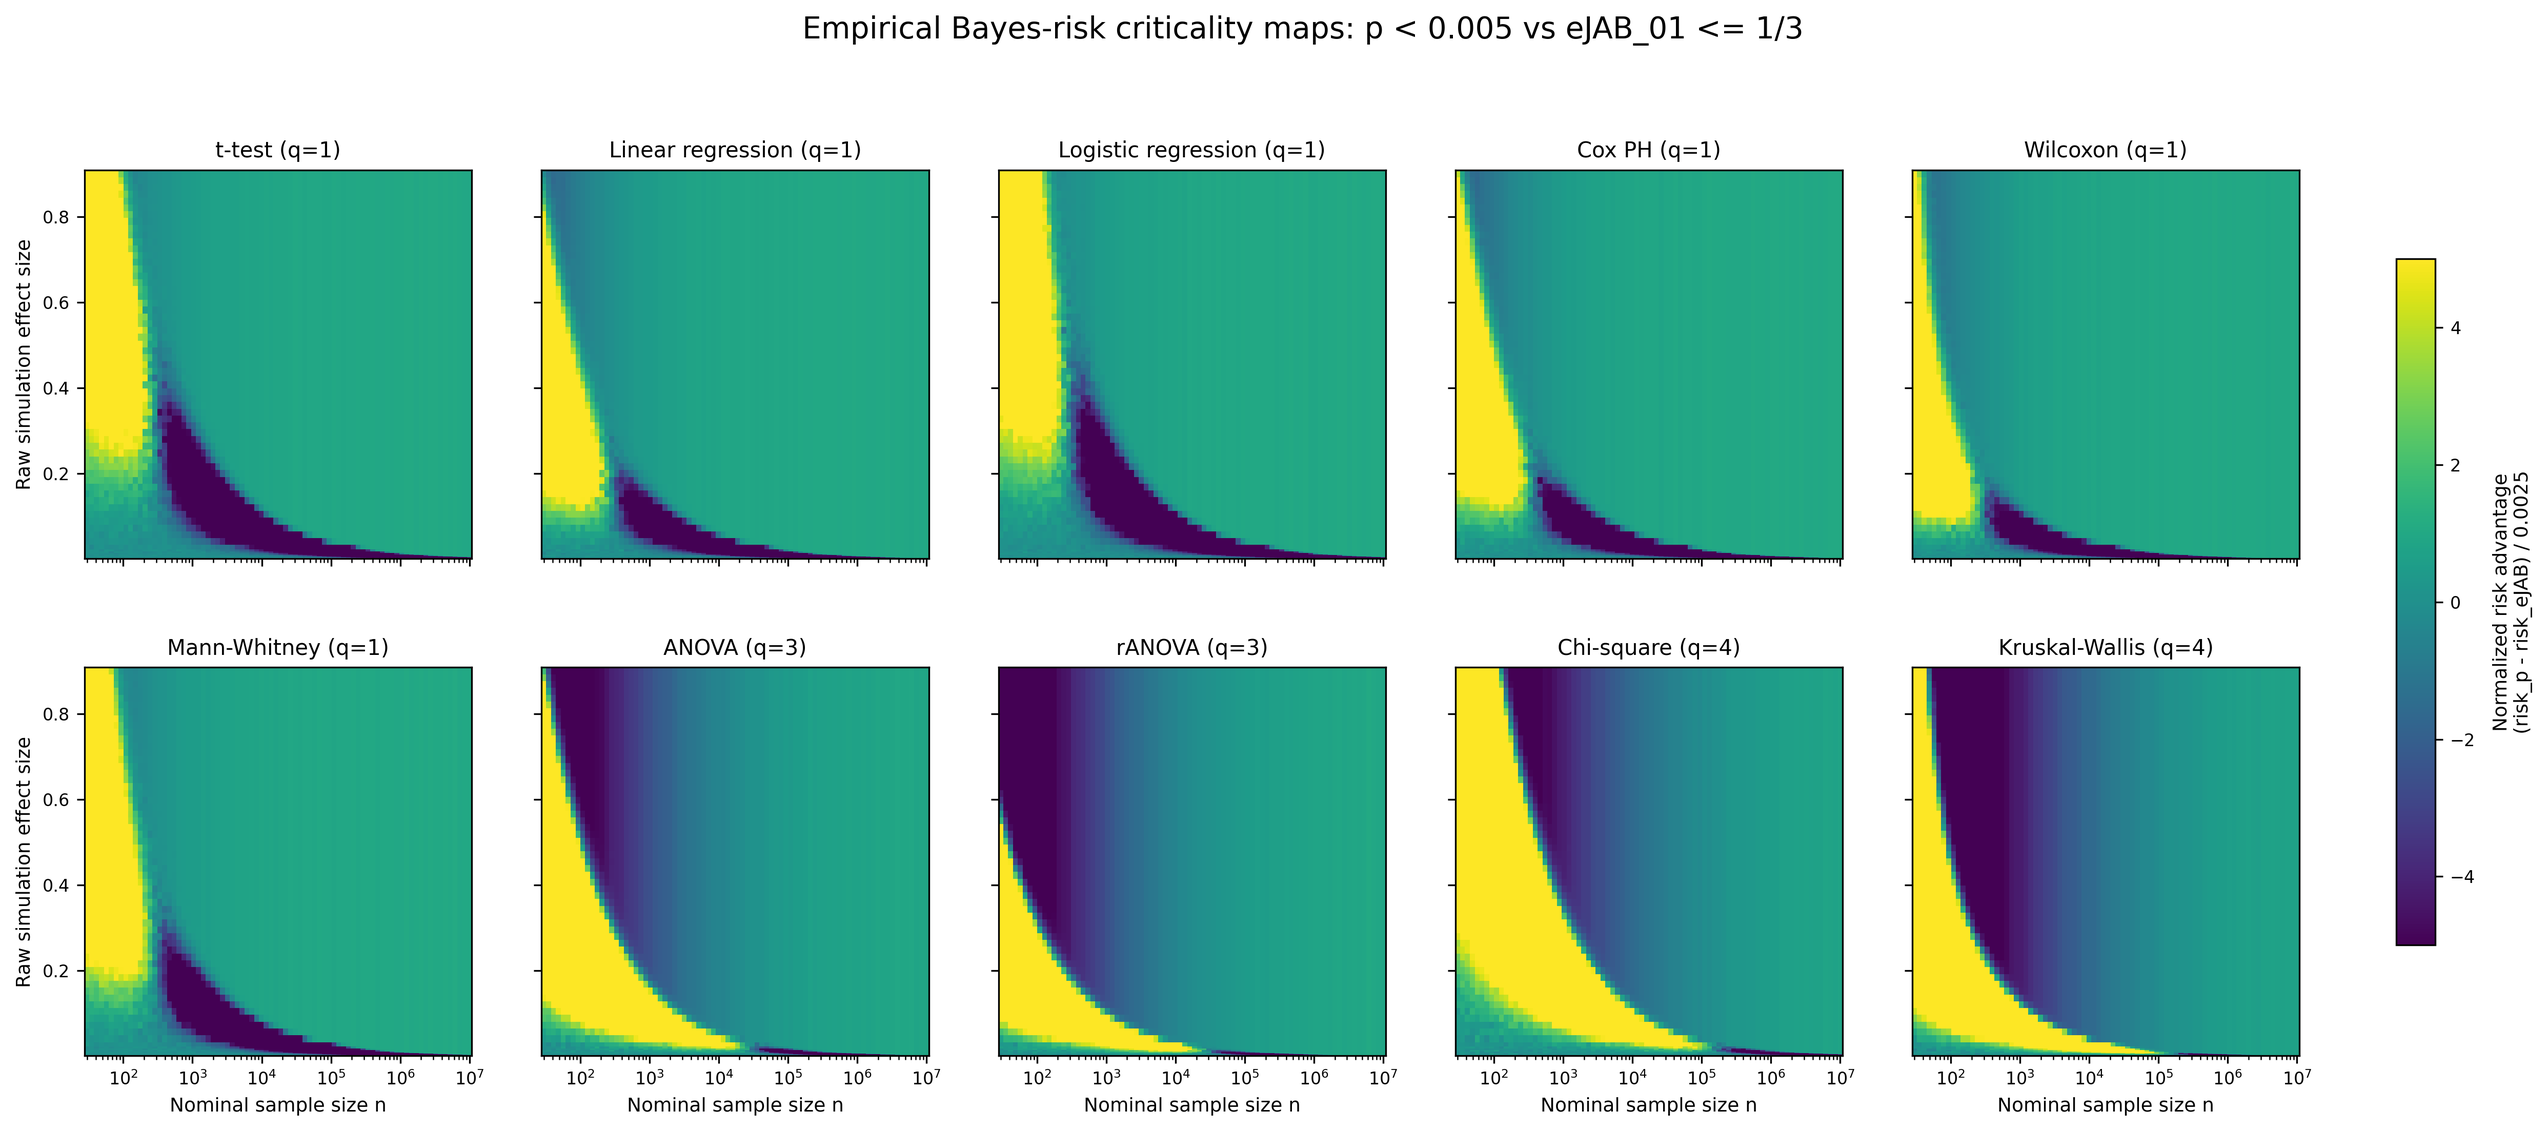
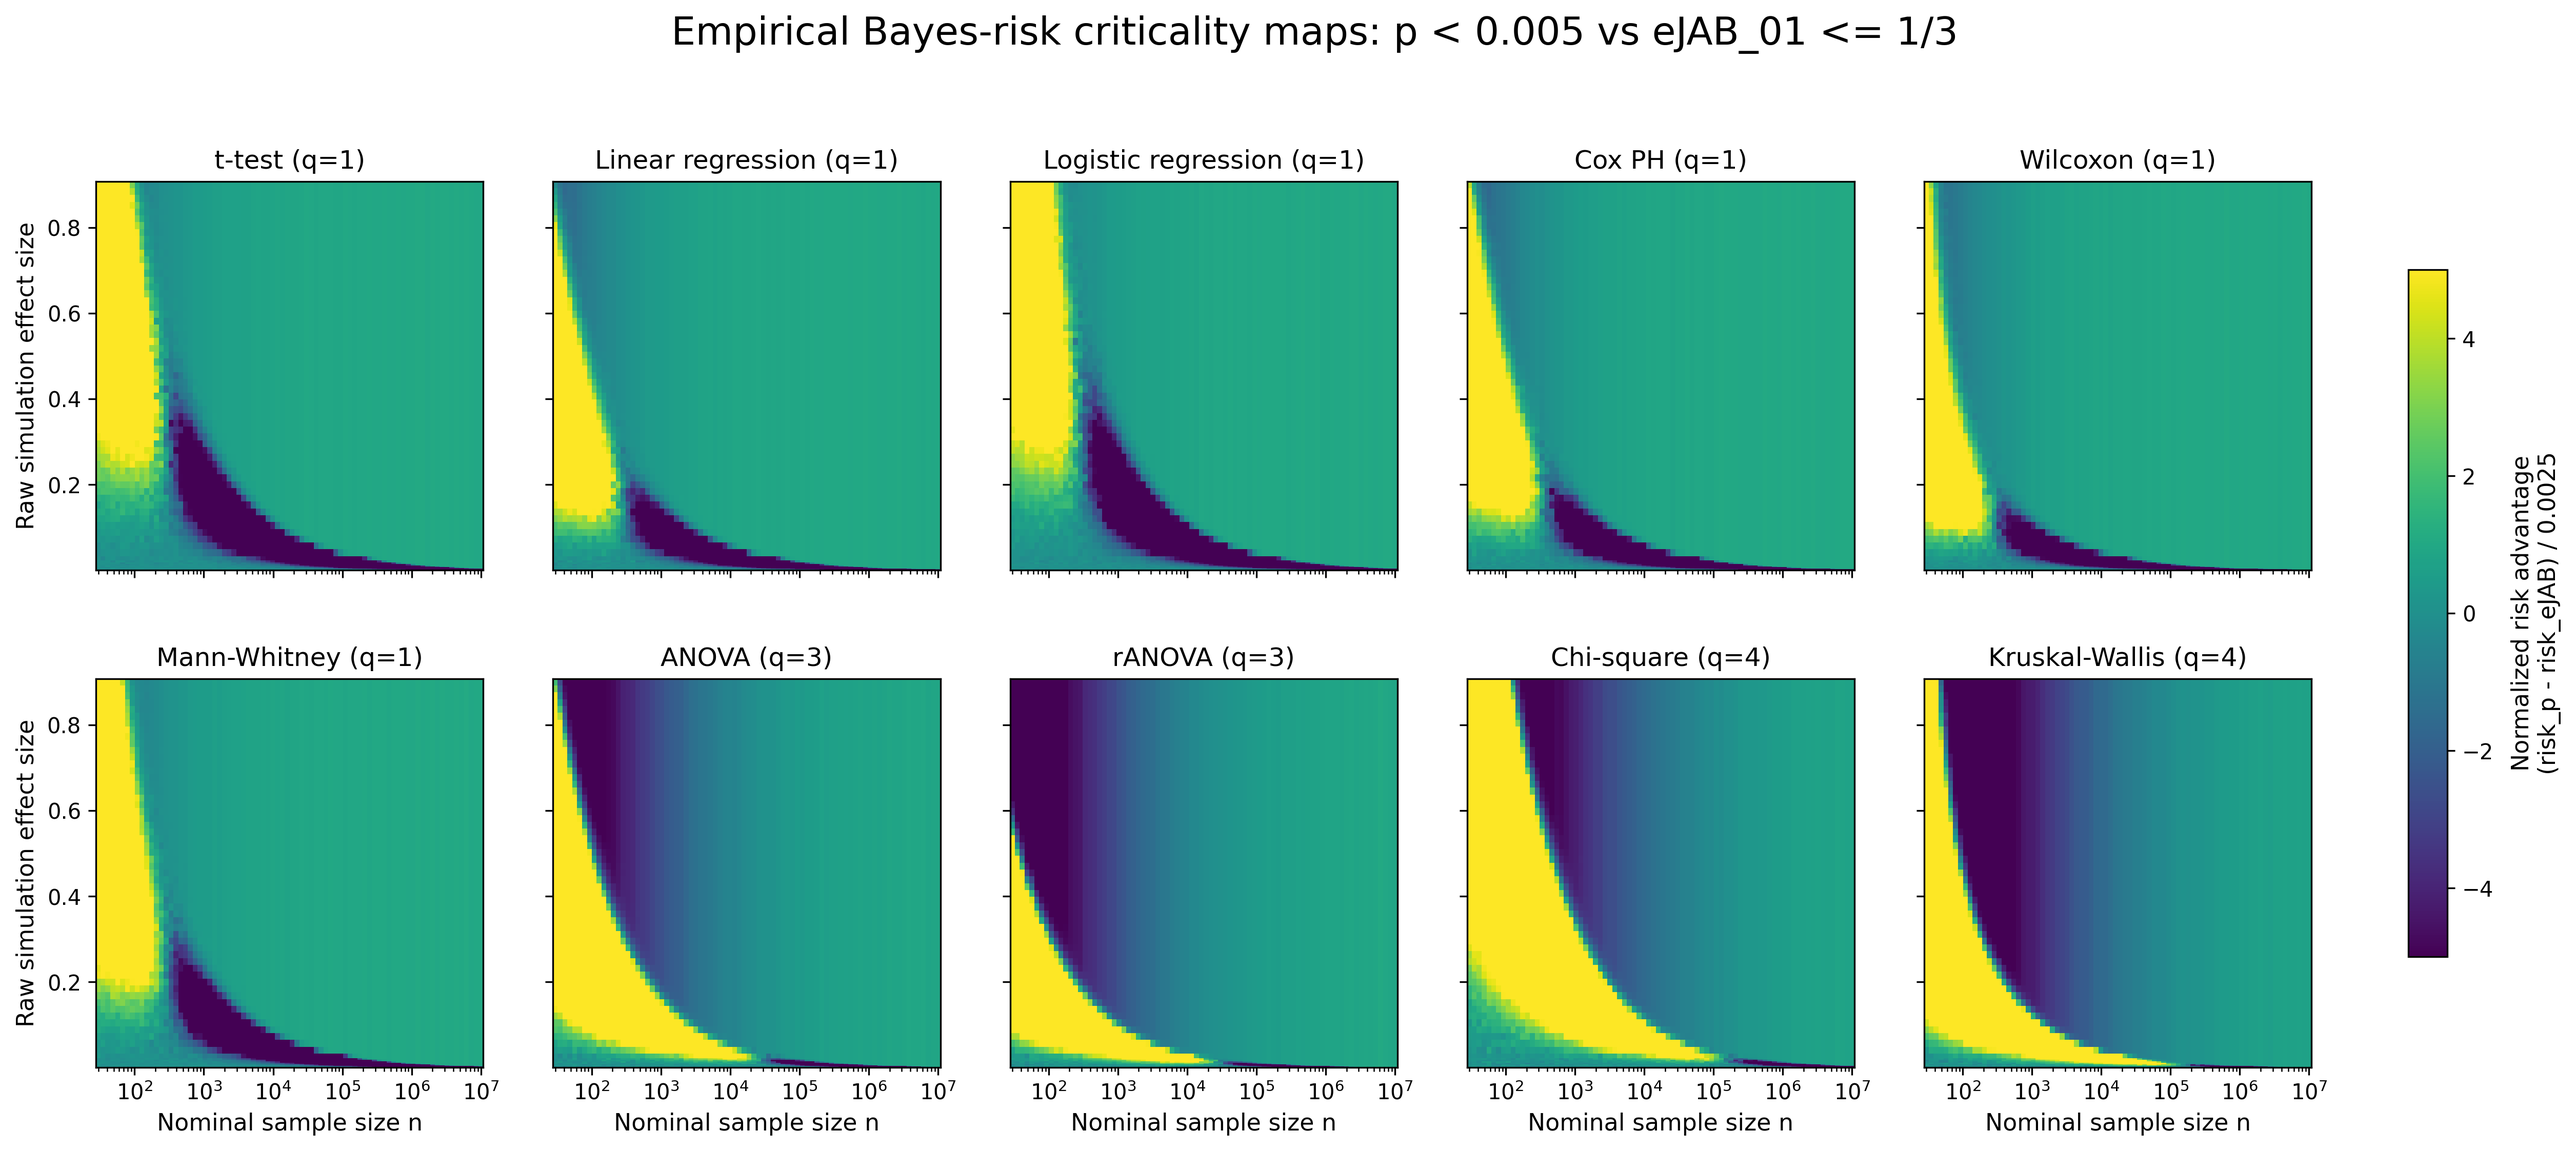
clarify johnson tsbf calibration in plots

diff --git a/ejabbayesrisk.py b/ejabbayesrisk.py
@@ -226,14 +226,18 @@ def johnson_chisq_logbf10(w: float, q: int, ncp: float) -> float:
 
 
 @lru_cache(maxsize=None)
-def johnson_chisq_threshold(q: int, bf10_threshold: float = JOHNSON_BF10_THRESHOLD) -> float:
+def johnson_chisq_calibration(
+    q: int,
+    bf10_threshold: float = JOHNSON_BF10_THRESHOLD,
+) -> tuple[float, float]:
     """
-    UMPBT-style Johnson rejection threshold for a chi-square statistic.
+    UMPBT-style Johnson calibration for a chi-square statistic.
 
     For each q and BF10 threshold gamma, choose the simple alternative
     noncentrality that minimizes the statistic boundary c satisfying:
         f_ncx2(c; q, lambda*) / f_chi2(c; q) = gamma.
     Reject when W >= c, equivalently Johnson BF01 <= 1 / gamma.
+    Returns (lambda*, c).
     """
     q = int(q)
     gamma = float(bf10_threshold)
@@ -271,7 +275,15 @@ def johnson_chisq_threshold(q: int, bf10_threshold: float = JOHNSON_BF10_THRESHO
     if not result.success:
         raise RuntimeError(f"Could not compute Johnson chi-square threshold for q={q}.")
 
-    return float(result.fun)
+    return float(math.exp(result.x)), float(result.fun)
+
+
+def johnson_chisq_ncp(q: int, bf10_threshold: float = JOHNSON_BF10_THRESHOLD) -> float:
+    return johnson_chisq_calibration(q, bf10_threshold)[0]
+
+
+def johnson_chisq_threshold(q: int, bf10_threshold: float = JOHNSON_BF10_THRESHOLD) -> float:
+    return johnson_chisq_calibration(q, bf10_threshold)[1]
 
 
 def johnson_bf01_reject_from_p(p: float, q: int, k01: float = K01) -> bool | float:
@@ -974,6 +986,7 @@ def plot_heatmap(
     """
     present_keys = list(risk["test_key"].drop_duplicates())
     present_tests = [cfg for cfg in TESTS if cfg["key"] in present_keys]
+    is_johnson = value_col == "normalized_delta_r_johnson_hat"
 
     n_panels = len(present_tests)
     ncols = 5 if n_panels > 5 else n_panels
@@ -1037,28 +1050,33 @@ def plot_heatmap(
         )
 
         ax.set_xscale("log")
-        ax.set_title(f"{cfg['short']} (q={cfg['q']})", fontsize=10)
-        ax.tick_params(axis="both", labelsize=8)
+        panel_title = f"{cfg['short']} (q={cfg['q']})"
+        if is_johnson:
+            lambda_star = johnson_chisq_ncp(cfg["q"])
+            panel_title += f"\nTSBF: gamma=3, lambda*={lambda_star:.3g}"
+
+        ax.set_title(panel_title, fontsize=12)
+        ax.tick_params(axis="both", labelsize=10)
 
     for ax in axes_flat[n_panels:]:
         ax.axis("off")
 
     for ax in axes[-1, :]:
-        ax.set_xlabel("Nominal sample size n", fontsize=9)
+        ax.set_xlabel("Nominal sample size n", fontsize=11)
 
     for row in axes:
-        row[0].set_ylabel("Raw simulation effect size", fontsize=9)
+        row[0].set_ylabel("Raw simulation effect size", fontsize=11)
 
     method = None
     if "method" in risk.columns and risk["method"].nunique(dropna=True) == 1:
         method = str(risk["method"].dropna().iloc[0])
     title_prefix = "Asymptotic Bayes-risk" if method == "asymptotic" else "Empirical Bayes-risk"
 
-    fig.suptitle(
-        f"{title_prefix} criticality maps: {reference_label} vs eJAB_01 <= 1/3",
-        fontsize=14,
-        y=1.02,
-    )
+    title = f"{title_prefix} criticality maps: {reference_label} vs eJAB_01 <= 1/3"
+    if is_johnson:
+        title += "\nJohnson TSBF: BF10(W)=f_chisq_q(lambda*)(W)/f_chisq_q(W), gamma=3"
+
+    fig.suptitle(title, fontsize=18, y=1.03)
 
     fig.subplots_adjust(
         left=0.06,
@@ -1073,10 +1091,10 @@ def plot_heatmap(
     cbar = fig.colorbar(last_mesh, cax=cax)
     cbar.set_label(
         f"Normalized risk advantage\n({reference_short} - risk_eJAB) / 0.0025",
-        fontsize=9,
+        fontsize=11,
         labelpad=8,
     )
-    cbar.ax.tick_params(labelsize=8)
+    cbar.ax.tick_params(labelsize=10)
 
     png = outdir / f"{outfile_prefix}{suffix}.png"
 
@@ -1510,6 +1528,7 @@ def main():
     risk.to_csv(risk_csv, index=False)
     config_df = pd.DataFrame(TESTS)
     config_df["johnson_bf10_threshold"] = JOHNSON_BF10_THRESHOLD
+    config_df["johnson_lambda_star"] = config_df["q"].map(lambda q: johnson_chisq_ncp(int(q)))
     config_df["johnson_w_threshold"] = config_df["q"].map(lambda q: johnson_chisq_threshold(int(q)))
     config_df.to_csv(config_csv, index=False)
 
